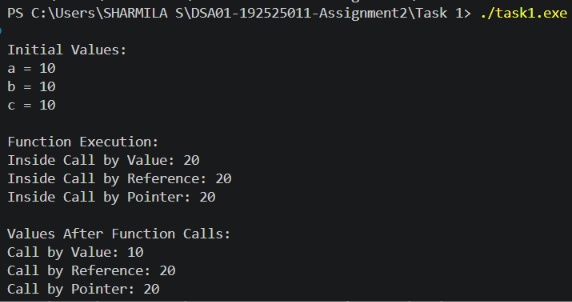
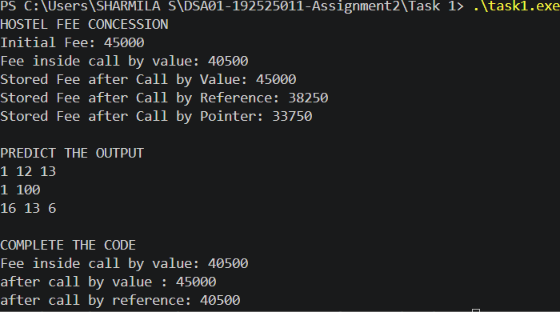
Complete Task 01 - Function Parameters and References

Changed region(s): [[0.0, 0.0, 1.0, 0.3874], [0.0, 0.745, 1.0, 1.0], [0.0, 0.447, 0.425, 0.6854]]

diff --git a/Task 1/main.cpp b/Task 1/main.cpp
@@ -1,41 +1,80 @@
 #include <iostream>
 using namespace std;
 
-void callByValue(int x) {
-    x += 10;
-    cout << "Inside Call by Value: " << x << endl;
+void applyByValue(long long fee, int percent) {
+    fee -= fee * percent / 100;
+    cout << "Fee inside call by value: " << fee << endl;
 }
 
-void callByReference(int &x) {
-    x += 10;
-    cout << "Inside Call by Reference: " << x << endl;
+void applyByReference(long long &fee, int percent) {
+    fee -= fee * percent / 100;
 }
 
-void callByPointer(int *x) {
-    *x += 10;
-    cout << "Inside Call by Pointer: " << *x << endl;
+void applyByPointer(long long *fee, int percent) {
+    *fee -= *fee * percent / 100;
+}
+
+void change(int a, int &b, int *c) {
+    a += 10;
+    b += 10;
+    *c += 10;
+    (void)a;
+}
+
+int &bigger(int &p, int &q) {
+    return p > q ? p : q;
+}
+
+void show(int x, int y = 5, int z = 10) {
+    cout << x + y + z << ' ';
+}
+
+void applyConcession(long long &fee, int percent) {
+    fee -= fee * percent / 100;
 }
 
 int main() {
-    int a = 10;
-    int b = 10;
-    int c = 10;
+    cout << "HOSTEL FEE CONCESSION" << endl;
 
-    cout << "Initial Values:" << endl;
-    cout << "a = " << a << endl;
-    cout << "b = " << b << endl;
-    cout << "c = " << c << endl;
+    long long valueFee = 45000;
+    long long referenceFee = 45000;
+    long long pointerFee = 45000;
 
-    cout << "\nFunction Execution:" << endl;
+    cout << "Initial Fee: 45000" << endl;
 
-    callByValue(a);
-    callByReference(b);
-    callByPointer(&c);
+    applyByValue(valueFee, 10);
+    cout << "Stored Fee after Call by Value: " << valueFee << endl;
 
-    cout << "\nValues After Function Calls:" << endl;
-    cout << "Call by Value: " << a << endl;
-    cout << "Call by Reference: " << b << endl;
-    cout << "Call by Pointer: " << c << endl;
+    applyByReference(referenceFee, 15);
+    cout << "Stored Fee after Call by Reference: " << referenceFee << endl;
+
+    applyByPointer(&pointerFee, 25);
+    cout << "Stored Fee after Call by Pointer: " << pointerFee << endl;
+
+    cout << "\nPREDICT THE OUTPUT" << endl;
+
+    int a = 1, b = 2, c = 3;
+
+    change(a, b, &c);
+    cout << a << ' ' << b << ' ' << c << '\n';
+
+    bigger(a, c) = 100;
+    cout << a << ' ' << c << '\n';
+
+    show(1);
+    show(1, 2);
+    show(1, 2, 3);
+    cout << '\n';
+
+    cout << "\nCOMPLETE THE CODE" << endl;
+
+    long long hostelFee = 45000;
+
+    applyByValue(hostelFee, 10);
+    cout << "after call by value : " << hostelFee << '\n';
+
+    applyConcession(hostelFee, 10);
+    cout << "after call by reference: " << hostelFee << '\n';
 
     return 0;
 }

diff --git a/Task 1/README.md b/Task 1/README.md
@@ -1,34 +1,121 @@
-# Task 1 – Call by Value, Reference and Pointer
+# Task 1 – Function Parameters and References
 
 ## Aim
 
-To demonstrate the differences between call by value, call by reference, and call by pointer using functions in OOPS.
+To understand and implement call by value, call by reference, and call by pointer in C++. This task also demonstrates reference returns, default arguments, and the effect of parameter passing on the original variables.
 
-## Problem Statement
+## Concepts Covered
 
-Implement a program to demonstrate three methods of passing arguments to functions and observe their effects on the original variables.
-
-## Concepts Used
-
-- Functions
 - Call by Value
 - Call by Reference
-- Pointers
-- Dereferencing
+- Call by Pointer
+- Reference Return
+- Default Arguments
+- Integer Arithmetic
+- Parameter Passing and Memory Behaviour
 
-## Algorithm
+## Implementation
 
-1. Start the program.
-2. Declare three integer variables and initialize them to 10.
-3. Define a function that accepts an integer by value and increments its local copy by 10.
-4. Define a function that accepts an integer by reference and increments the original variable by 10.
-5. Define a function that accepts an integer pointer and increments the value stored at the address by 10.
-6. Display the initial values.
-7. Call all three functions with their respective arguments.
-8. Display the values after function execution.
-9. Stop the program.
+The program demonstrates hostel fee concessions using three parameter-passing methods:
 
-## Compilation Command
+| Method | Concession | Initial Fee | Stored Fee |
+|---|---:|---:|---:|
+| Call by Value | 10% | 45000 | 45000 |
+| Call by Reference | 15% | 45000 | 38250 |
+| Call by Pointer | 25% | 45000 | 33750 |
 
-```bash
+### Explanation
+
+**Call by Value:** A copy of the original fee is passed to the function. Changes affect only the local copy, so the original fee remains unchanged.
+
+**Call by Reference:** The function receives a reference to the original variable. Changes made inside the function directly modify the original fee.
+
+**Call by Pointer:** The address of the original variable is passed. Dereferencing the pointer allows the function to modify the original fee.
+
+## Output Prediction
+
+The `change()` function demonstrates the behaviour of value, reference, and pointer parameters.
+
+The `bigger()` function returns a reference to the larger variable, allowing the returned variable to be modified directly.
+
+The `show()` function demonstrates default arguments.
+
+### Predicted Output
+
+```text
+1 12 13
+1 100
+16 13 6
+```
+
+### Explanation
+
+- The first variable remains unchanged because it is passed by value.
+- The second and third variables are modified through reference and pointer parameters.
+- The `bigger()` function returns a reference to the larger variable.
+- The `show()` function uses default values for omitted arguments.
+
+## Completed Code
+
+The `applyConcession()` function uses a reference parameter to update the hostel fee.
+
+```cpp
+void applyConcession(long long &fee, int percent) {
+    fee -= fee * percent / 100;
+}
+```
+
+### Expected Result
+
+| Operation | Fee |
+|---|---:|
+| Initial Fee | 45000 |
+| After Call by Value | 45000 |
+| After Call by Reference | 40500 |
+
+## Alternative Design
+
+The concession function can also return the updated fee instead of modifying the original variable directly.
+
+```cpp
+long long applyConcession(long long fee, int percent) {
+    return fee - fee * percent / 100;
+}
+```
+
+The returned value can be stored using:
+
+```cpp
+hostelFee = applyConcession(hostelFee, 10);
+```
+
+Returning a new value makes the modification explicit, while reference-based modification is useful when the original variable must be updated directly.
+
+## Complexity Analysis
+
+| Operation | Time Complexity | Additional Space |
+|---|---|---|
+| Call by Value | O(1) for `long long` | O(1) |
+| Call by Reference | O(1) | O(1) |
+| Call by Pointer | O(1) | O(1) |
+| Fee Calculation | O(1) | O(1) |
+
+For a large object, passing by value requires copying the object, which takes time proportional to its size. Passing by reference or const reference avoids this copy.
+
+A const reference is suitable when a function needs to read an object without modifying it.
+
+## Compilation
+
+```powershell
 g++ -std=c++17 -Wall -Wextra -pedantic main.cpp -o task1.exe
+```
+
+## Execution
+
+```powershell
+.\task1.exe
+```
+
+## Result
+
+The program successfully demonstrates call by value, call by reference, call by pointer, reference returns, and default arguments. The completed concession function correctly modifies the original fee through a reference parameter.
